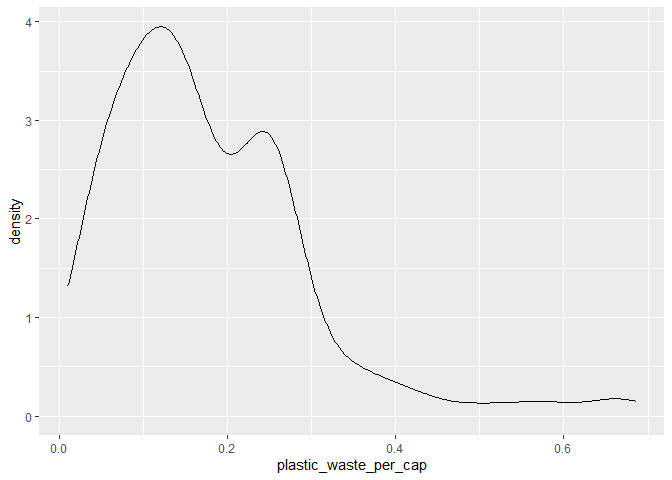
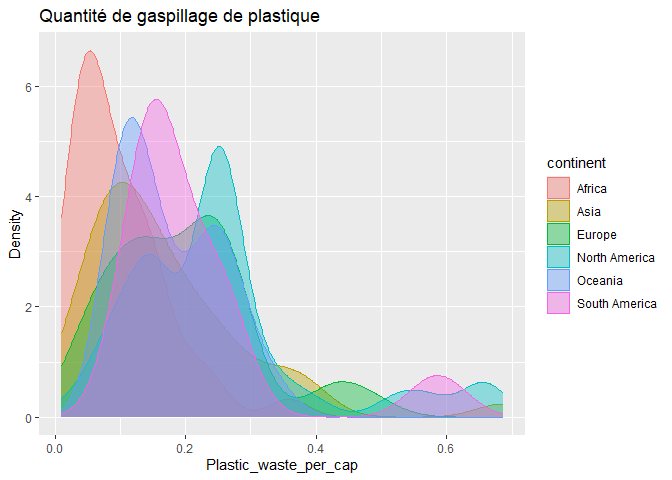
réponse question 1,2,3,4 sans avoir répondu aux questions théoriques

diff --git a/lab-02.md b/lab-02.md
@@ -45,35 +45,62 @@ ggplot(plastic_waste, aes(x = plastic_waste_per_cap)) +
 ### Exercise 2
 
 ``` r
-ggplot(plastic_waste, aes(x = plastic_waste_per_cap)) +
-  geom_density()
+ggplot(plastic_waste, aes(x = plastic_waste_per_cap, colour = continent,
+                          fill = continent)) +
+  geom_density(adjust = 1,
+               alpha = 0.4) +
+  labs(
+    x = "Plastic_waste_per_cap", 
+    y = "Density",
+    title = "Quantité de gaspillage de plastique",
+    fill = "continent"
+  )
 ```
 
 ![](lab-02_files/figure-gfm/plastic-waste-density-1.png)<!-- -->
 
-Réponse à la question…
+Les réglages de couleur (color et fill) ne se trouvent pas au même
+endroit que celui de la transparence (alpha), car ils sont liés à
+l’esthétique des données et du graphique. Tandis que, (alpha) est
+indépendant aux données.
 
 ### Exercise 3
 
 Boxplot:
 
 ``` r
-# insert code here
+ggplot(plastic_waste, aes( x = continent, y = plastic_waste_per_cap)) +
+  geom_boxplot() +
+  labs( 
+    x = "Continent",
+    y = "plastic_waste_per_cap", 
+    title = "Quantité de gaspillage de plastique",
+    subtitles = "par continent"
+    )
 ```
+
+![](lab-02_files/figure-gfm/plastic-waste-boxplot-1.png)<!-- -->
 
 Violin plot:
 
 ``` r
-# insert code here
+ggplot(plastic_waste, aes(x = continent, y = plastic_waste_per_cap )) +
+  geom_violin()
 ```
+
+![](lab-02_files/figure-gfm/plastic-waste-violin-1.png)<!-- -->
 
 Réponse à la question…
 
 ### Exercise 4
 
 ``` r
-# insert code here
+ggplot(plastic_waste, aes(x = plastic_waste_per_cap, y = mismanaged_plastic_waste_per_cap, colour = continent)) +
+  geom_point () +
+  labs(title = "Relation entre la quantité de déchet vs celle non-gérée", y = "nombre de déchets plastiques non gérés par habitant")
 ```
+
+![](lab-02_files/figure-gfm/plastic-waste-mismanaged-1.png)<!-- -->
 
 Réponse à la question…
 
@@ -92,7 +119,3 @@ Réponse à la question…
 ## Conclusion
 
 Recréez la visualisation:
-
-``` r
-# insert code here
-```
